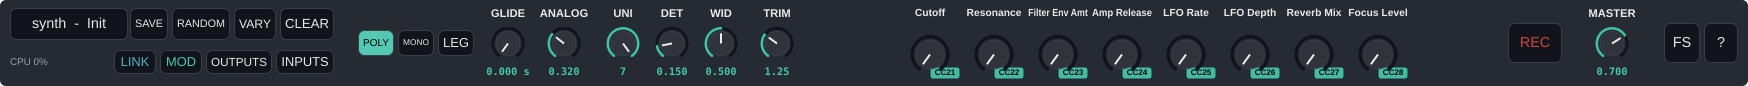
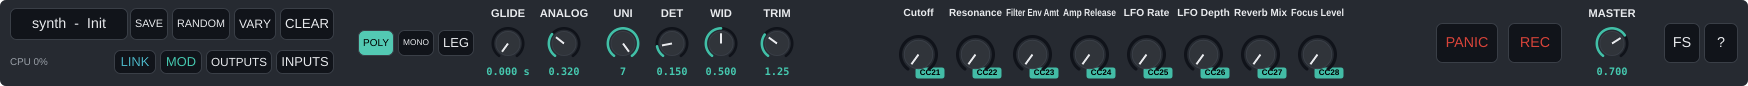
#144 G1.3: PANIC all-notes-off (top-bar button + Ctrl+.)
A one-touch kill for stuck/runaway notes while debugging the looper/poly defects:
a red PANIC button beside REC in the top bar, and Ctrl+. as a keyboard shortcut,
both calling requestAllNotesOff() (serviced click-safe at block start — releases
live voices, generator voices, and sample pads with their tail fades). Help
overlay documents both. Engine test: 8 voices (4 live + 4 gen) -> allNotesOff ->
short-release render -> activeVoiceCount()==0.

Screenshots refreshed for the new top-bar button (full-editor smoke shots only).

diff --git a/Source/UI/TopBar.h b/Source/UI/TopBar.h
@@ -80,6 +80,14 @@ public:
         full.onClick = [this] { if (toggleFullscreen) toggleFullscreen(); if (restoreFocus) restoreFocus(); };
         addAndMakeVisible (full);
 
+        // PANIC (Ctrl+.): release EVERY voice — live, looper lanes, seq/arp, and the sample pool —
+        // click-safe (envelope release path, not a hard cut). The engine primitive already exists.
+        panic.setButtonText ("PANIC"); styleBtn (panic);
+        panic.setColour (juce::TextButton::textColourOffId, juce::Colour (0xffd8443a));   // red = emergency stop
+        panic.setTooltip ("PANIC (Ctrl+.): release every voice — live, loops, seq/arp, samples — click-safe");
+        panic.onClick = [this] { proc.requestAllNotesOff(); proc.postToast ("PANIC"); if (restoreFocus) restoreFocus(); };
+        addAndMakeVisible (panic);
+
         help.setButtonText ("?"); styleBtn (help);
         help.onClick = [this] { if (toggleHelp) toggleHelp(); };
         addAndMakeVisible (help);
@@ -197,6 +205,7 @@ public:
         full.setBounds (tb.removeFromRight (36).reduced (0, 16)); tb.removeFromRight (6);
         master->setBounds (tb.removeFromRight (92)); tb.removeFromRight (4);
         rec.setBounds (tb.removeFromRight (54).reduced (0, 16)); tb.removeFromRight (10);
+        panic.setBounds (tb.removeFromRight (62).reduced (0, 16)); tb.removeFromRight (10);   // emergency stop, left of REC
 
         // Voice group (poly/mono/legato + glide), just right of the preset area.
         mode->setBounds (tb.removeFromLeft (120).withSizeKeepingCentre (120, 30)); tb.removeFromLeft (6);
@@ -460,6 +469,7 @@ private:
 
     juce::TextButton presetBtn, save, random, clear, rec, full, help;
     juce::TextButton vary;                              // H5: perturb the current patch
+    juce::TextButton panic;                             // all-notes-off (live + loops + seq/arp + samples)
     juce::TextButton link, mod, inputs, outputs;        // global-action row
     bool linkWasArmed = false;
     inline static const juce::Colour kLinkRing { 0xff4bb3c4 };   // LINK cyan (matches the knob armed ring)

diff --git a/tests/dsp/test_voice_steal.cpp b/tests/dsp/test_voice_steal.cpp
@@ -80,3 +80,20 @@ TEST_CASE ("voice breakdown: LIVE / GEN / SMP counted separately (#142)", "[engi
     REQUIRE (smp  == 0);                                  // no sample-pad voices
     REQUIRE (live + gen == eng.activeVoiceCount());       // the synth breakdown reconciles with the total
 }
+
+// #144 PANIC: allNotesOff() must RELEASE every voice — live AND generator (and the sample pool) —
+// via the envelope release path (click-safe), so the pool frees up. Here: 4 live + 4 generator
+// voices on part 0, panic, then render past a short release and confirm the pool is empty.
+TEST_CASE ("allNotesOff releases every voice, live + generator (#144)", "[engine][voices][panic]")
+{
+    SynthEngine eng; eng.prepare (48000.0, 128); eng.setMaxVoices (16);
+    for (int i = 0; i < 4; ++i) eng.noteOn (60 + i, 0.9f, 0, 0, /*generator*/ false);
+    for (int i = 0; i < 4; ++i) eng.noteOn (48 + i, 0.9f, 0, 0, /*generator*/ true);
+    REQUIRE (eng.activeVoiceCount() == 8);
+
+    eng.allNotesOff();                                   // PANIC (release path)
+    VoiceParams p; p.osc1Wave = 0; p.osc1Level = 0.8f; p.ampS = 0.0f; p.ampR = 0.004f;   // short release
+    std::vector<float> out (128, 0.0f);
+    for (int b = 0; b < 300; ++b) eng.render (out.data(), 128, p, 3.0f, 0, 0.3f, 2);
+    REQUIRE (eng.activeVoiceCount() == 0);               // every voice released and freed
+}

diff --git a/Source/UI/HelpOverlay.h b/Source/UI/HelpOverlay.h
@@ -62,8 +62,9 @@ public:
             { "VOICES 1|2 (chorus)", "2 adds a second decorrelated tap — thicker, wider chorus" },
             { "SAT knob (FX width)", "tube-style saturation (even harmonics), applied before widening" },
             { "SYNC / DIV (LFO)", "lock the LFO to tempo; DIV sets the note division" },
+            { "PANIC  (Ctrl + .)", "all-notes-off: release every voice (live, loops, seq/arp, samples), click-safe" },
             { "F11", "fullscreen (standalone)" },
-            { "F12", "audio-health debug overlay" },
+            { "F12", "audio-health debug overlay (live LIVE/GEN/SMP voice counts + master meter)" },
             { "?  (Shift + /)", "show / hide this help" },
         };
         for (auto& row : rows)

diff --git a/Source/PluginEditor.h b/Source/PluginEditor.h
@@ -278,6 +278,8 @@ public:
     bool keyPressed (const juce::KeyPress& key) override
     {
         if (key == juce::KeyPress::F12Key) { overlay.setVisible (! overlay.isVisible()); return true; }
+        if (key == juce::KeyPress ('.', juce::ModifierKeys::ctrlModifier, 0))   // PANIC: all-notes-off
+            { proc.requestAllNotesOff(); proc.postToast ("PANIC"); return true; }
         if (key == juce::KeyPress::F11Key && isStandalone()) { toggleFullscreen(); return true; }
         if (key.getTextCharacter() == '?') { toggleHelp(); return true; }
         if (key == juce::KeyPress::escapeKey && (helpOverlay.isVisible() || guideOverlay.isVisible())) { hideHelp(); return true; }
